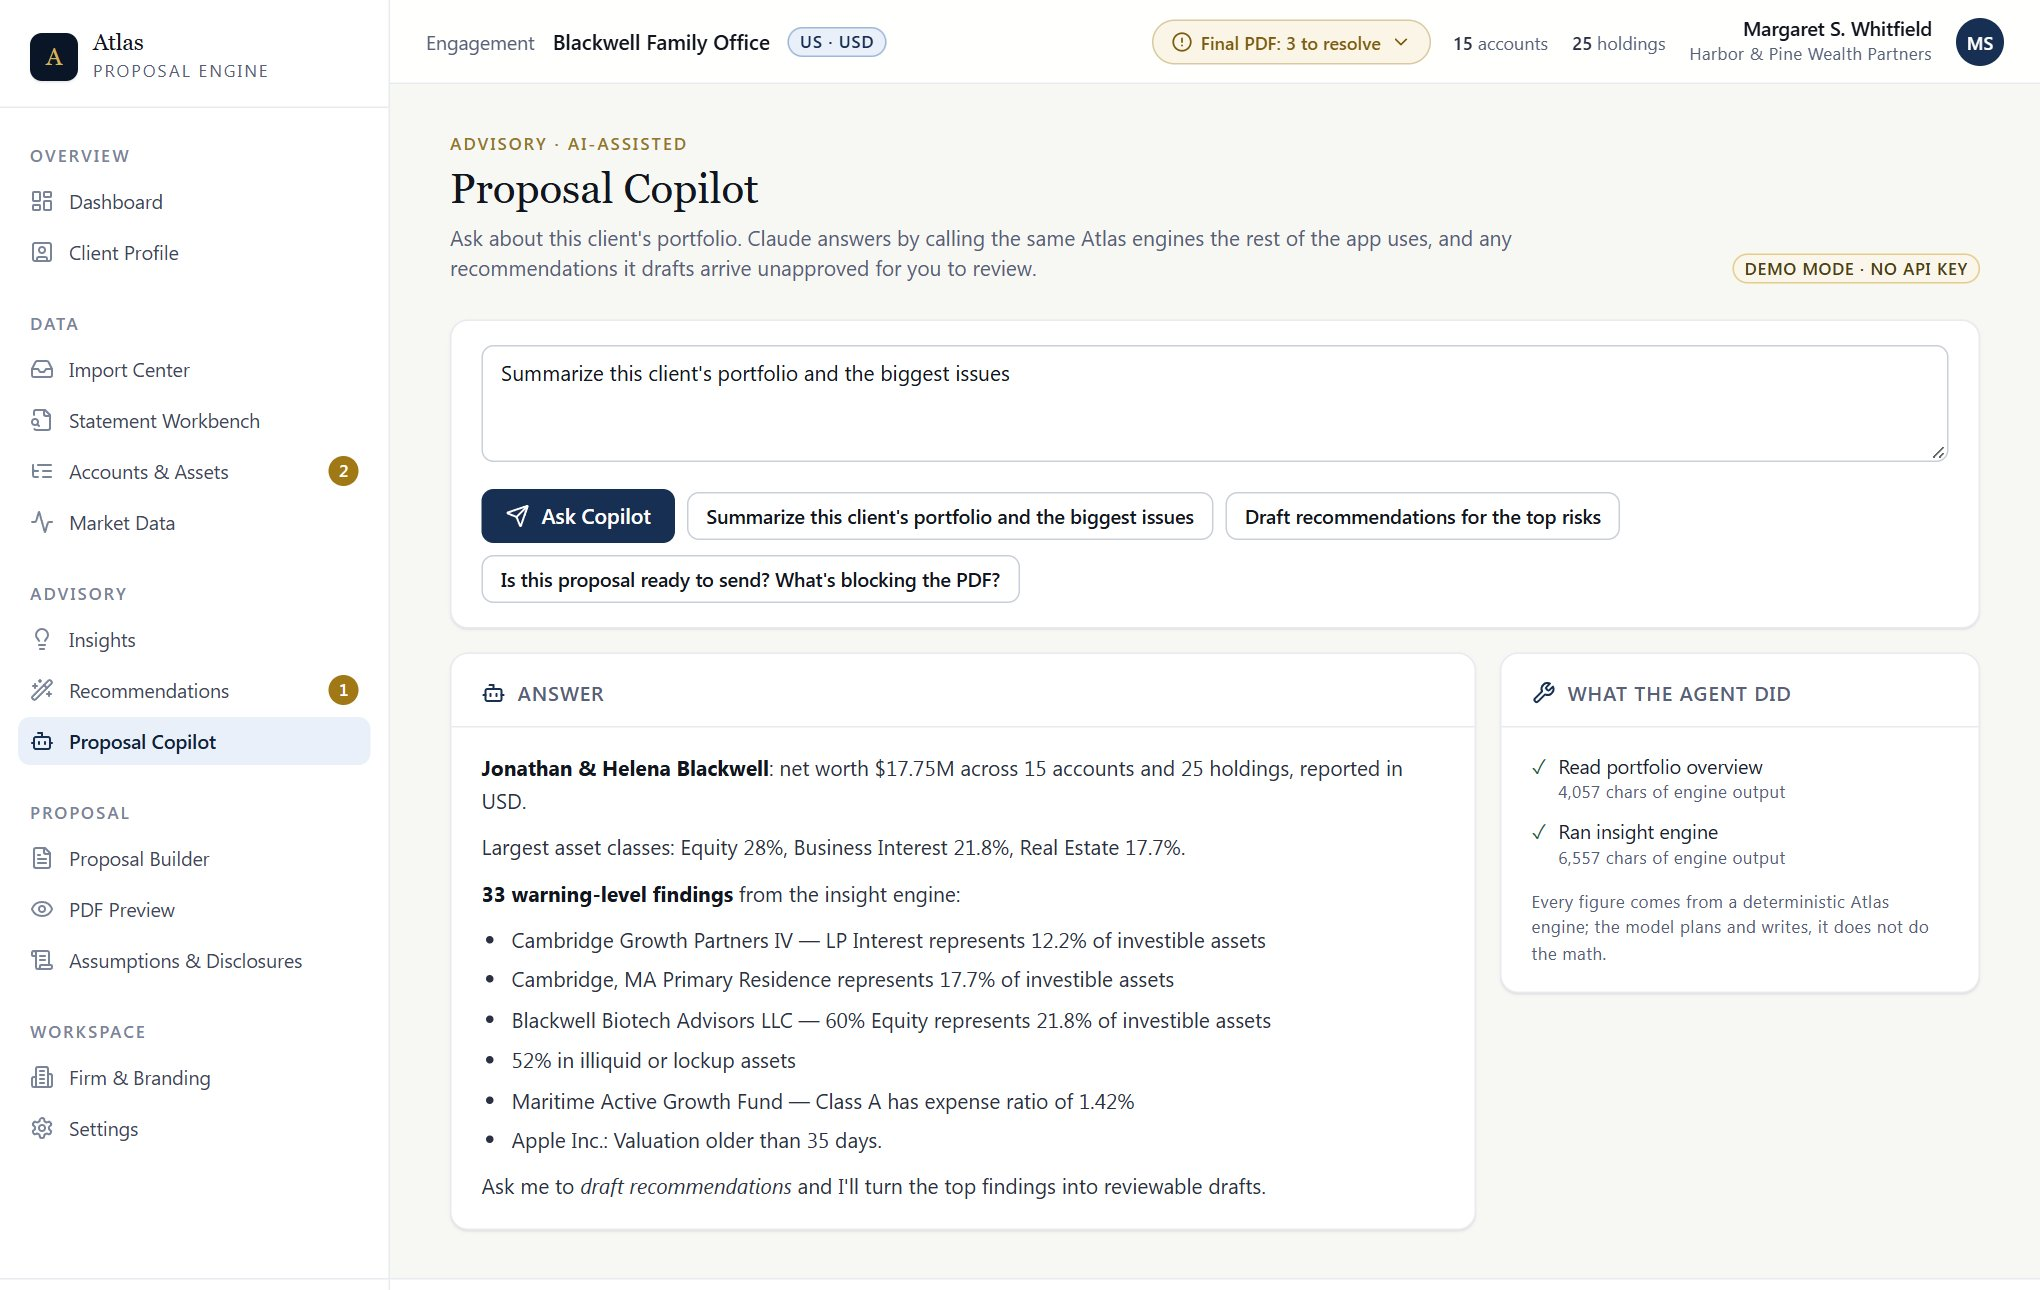
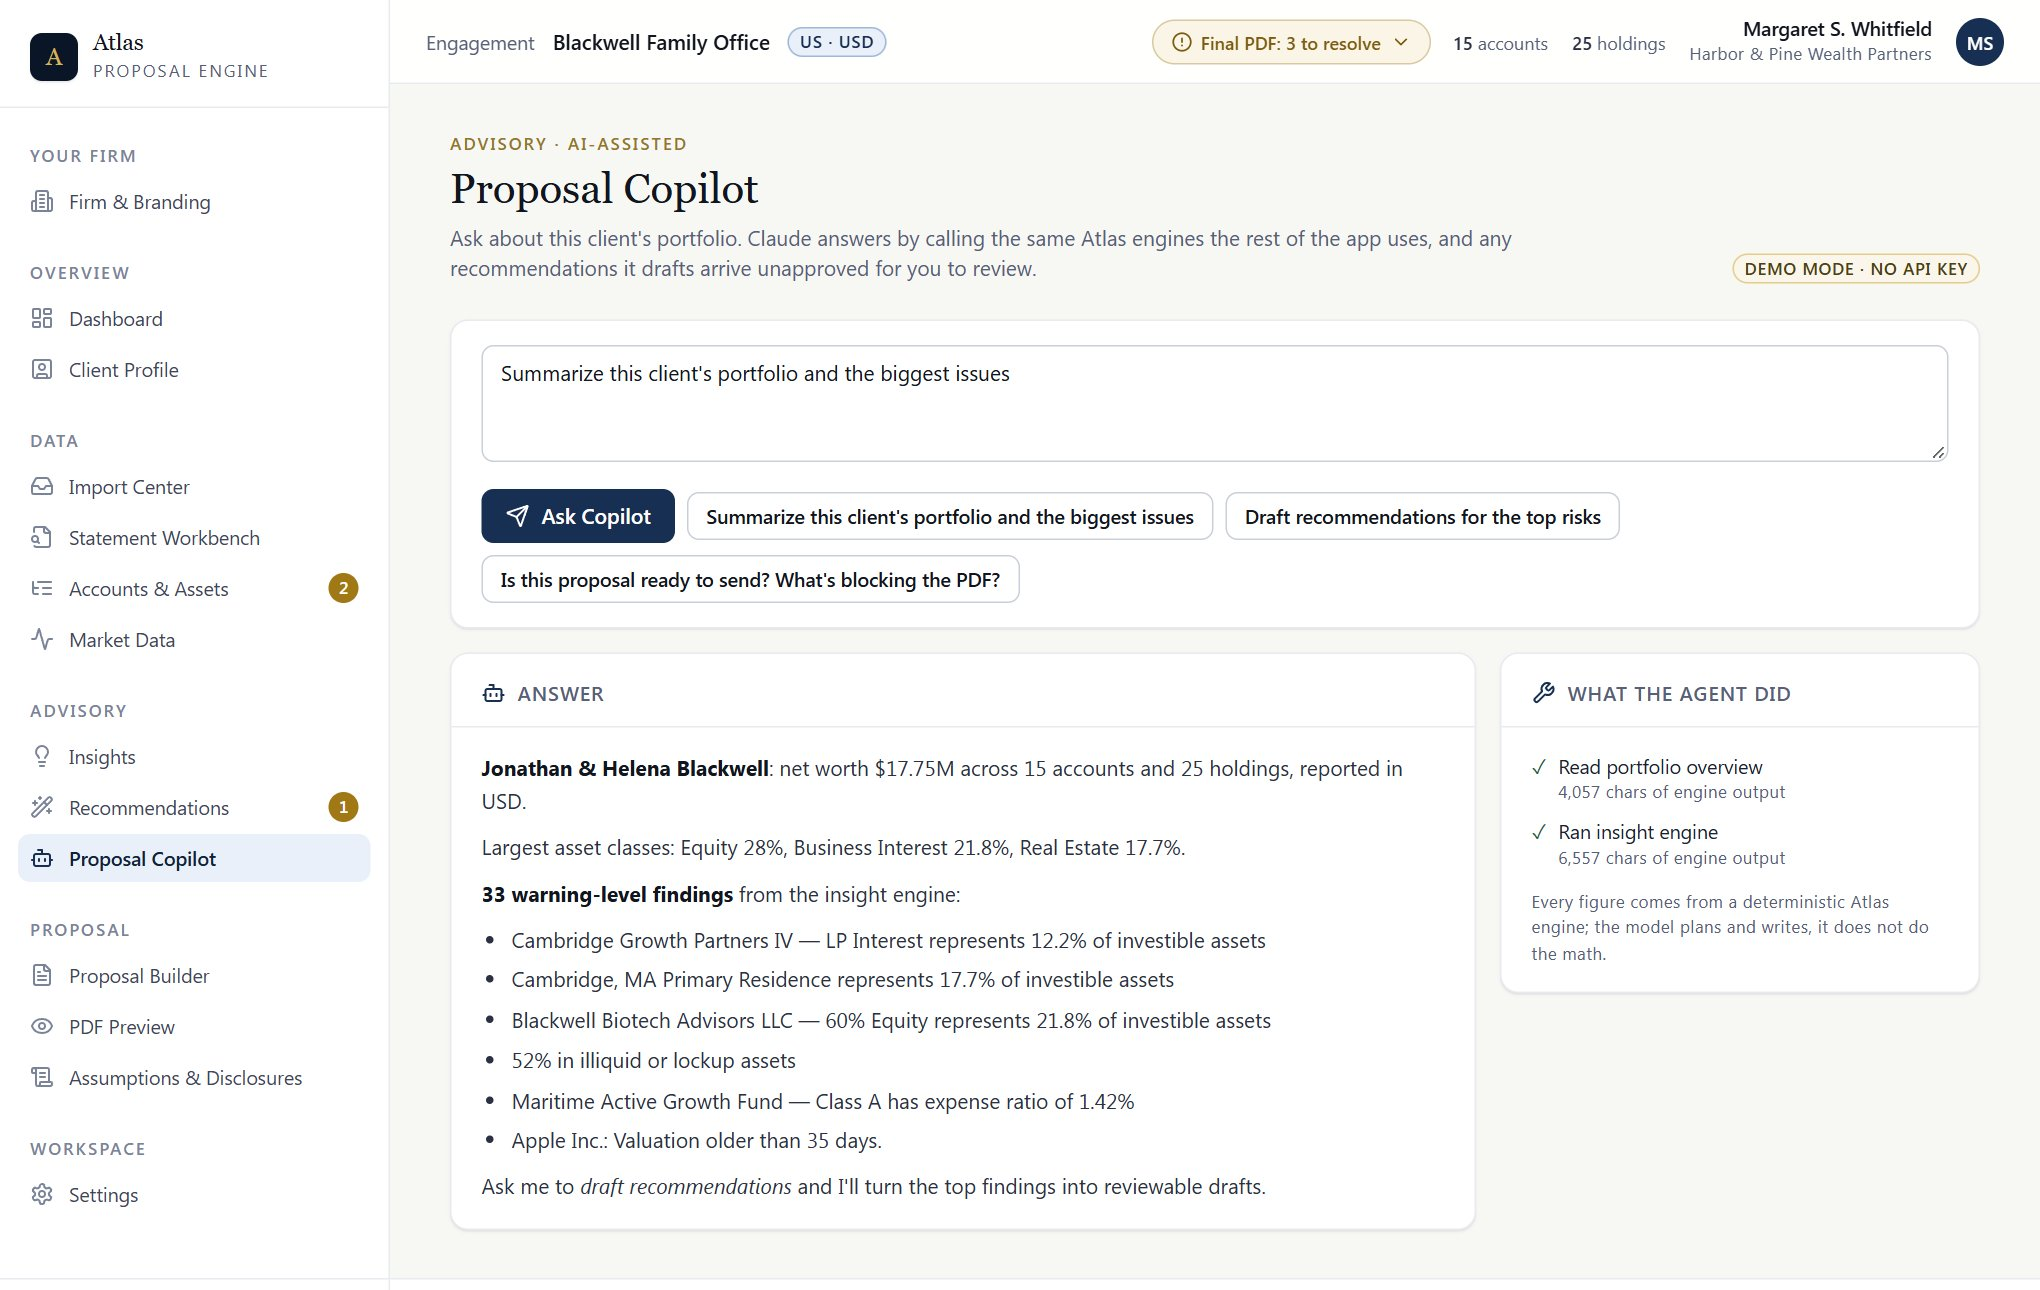
Lead the menu with Firm & Branding; make Client Profile client-only
Firm & Branding moves from the bottom of the sidebar (Workspace) to its own
'Your Firm' group at the top, matching the order of work: set up the firm
once, then work client by client. Client Profile drops the 'Your firm'
card and uses the full width for the client; the firm stays visible in the
top bar on every page. The advisor-responsibility note moves to Firm &
Branding. README screenshots retaken.

diff --git a/src/app/client-profile/page.tsx b/src/app/client-profile/page.tsx
@@ -1,8 +1,6 @@
 "use client";
 
 import * as React from "react";
-import Link from "next/link";
-import { ArrowRight } from "lucide-react";
 import { useAtlasStore } from "@/store/useStore";
 import { Card, CardBody, CardHeader, CardTitle } from "@/components/ui/Card";
 import { Input, Label, Select, Textarea } from "@/components/ui/Input";
@@ -22,7 +20,6 @@ export default function ClientProfilePage() {
 
 function ClientProfileInner() {
   const client = useAtlasStore((s) => s.client);
-  const advisor = useAtlasStore((s) => s.advisor);
   const setClient = useAtlasStore((s) => s.setClient);
   const startNewClient = useAtlasStore((s) => s.startNewClient);
   const resetSeed = useAtlasStore((s) => s.resetSeed);
@@ -44,7 +41,7 @@ function ClientProfileInner() {
       <PageHeader
         eyebrow="Engagement"
         title="Client Profile"
-        description="Who this proposal is for: the client's details, jurisdiction, goals and constraints. Your firm's details live in Firm & Branding."
+        description="Who this proposal is for: the client's details, jurisdiction, goals and constraints."
         actions={
           <>
             <Button variant="ghost" size="sm" onClick={() => { if (confirm("Restore the seeded Blackwell Family Office household?")) resetSeed(); }}>
@@ -57,7 +54,7 @@ function ClientProfileInner() {
         }
       />
 
-      <div className="grid grid-cols-1 lg:grid-cols-2 gap-4">
+      <div className="max-w-4xl">
         <Card>
           <CardHeader>
             <CardTitle>Client</CardTitle>
@@ -183,40 +180,6 @@ function ClientProfileInner() {
                 onChange={(e) => setClient({ advisorDiscoveryNotes: e.target.value })}
               />
             </Field>
-          </CardBody>
-        </Card>
-
-        <Card className="self-start">
-          <CardHeader>
-            <CardTitle>Your firm</CardTitle>
-          </CardHeader>
-          <CardBody className="space-y-3">
-            <div className="flex items-center gap-3">
-              {advisor.logoDataUrl && (
-                // eslint-disable-next-line @next/next/no-img-element
-                <img src={advisor.logoDataUrl} alt="" className="h-10 max-w-28 object-contain" />
-              )}
-              <div className="min-w-0">
-                <div className="font-medium text-ink-900 truncate">{advisor.firmName || "No firm set"}</div>
-                <div className="text-[13px] text-ink-600 truncate">
-                  {advisor.name || "No advisor set"}
-                  {advisor.email ? ` · ${advisor.email}` : ""}
-                </div>
-              </div>
-            </div>
-            <p className="text-[13px] text-ink-600 leading-relaxed">
-              Proposals are branded with your firm, not Atlas. Firm details, logo and accent color are set once in{" "}
-              <span className="font-medium text-ink-800">Firm &amp; Branding</span> and reused for every client.
-            </p>
-            <Link href="/firm-branding">
-              <Button variant="secondary" size="sm" iconRight={<ArrowRight className="h-3.5 w-3.5" />}>
-                Edit firm &amp; branding
-              </Button>
-            </Link>
-            <p className="text-2xs text-ink-500 leading-relaxed pt-2 border-t border-ink-100">
-              The advisor remains responsible for the suitability and implementation of every recommendation in this proposal. The platform does not autonomously provide
-              financial, tax, legal, or investment advice.
-            </p>
           </CardBody>
         </Card>
       </div>

diff --git a/src/components/layout/Sidebar.tsx b/src/components/layout/Sidebar.tsx
@@ -32,6 +32,8 @@ interface NavItem {
 }
 
 const NAV: NavItem[] = [
+  // Set up once, before any client work, so it leads the menu.
+  { label: "Firm & Branding", href: "/firm-branding", icon: <Building2 className="h-4 w-4" />, group: "Your Firm" },
   { label: "Dashboard", href: "/", icon: <LayoutDashboard className="h-4 w-4" />, group: "Overview" },
   { label: "Client Profile", href: "/client-profile", icon: <UserSquare className="h-4 w-4" />, group: "Overview" },
   { label: "Import Center", href: "/import-center", icon: <Inbox className="h-4 w-4" />, group: "Data" },
@@ -44,7 +46,6 @@ const NAV: NavItem[] = [
   { label: "Proposal Builder", href: "/proposal-builder", icon: <FileText className="h-4 w-4" />, group: "Proposal" },
   { label: "PDF Preview", href: "/pdf-preview", icon: <Eye className="h-4 w-4" />, group: "Proposal" },
   { label: "Assumptions & Disclosures", href: "/assumptions-disclosures", icon: <ScrollText className="h-4 w-4" />, group: "Proposal" },
-  { label: "Firm & Branding", href: "/firm-branding", icon: <Building2 className="h-4 w-4" />, group: "Workspace" },
   { label: "Settings", href: "/settings", icon: <Settings className="h-4 w-4" />, group: "Workspace" },
 ];
 

diff --git a/src/app/firm-branding/page.tsx b/src/app/firm-branding/page.tsx
@@ -86,6 +86,10 @@ function Inner() {
                 Disclosures refer to the adviser as <code className="bg-slatey-100 rounded px-1">[Firm]</code>. Once you replace the sample firm
                 name, proposals use your firm name there instead.
               </p>
+              <p className="sm:col-span-2 text-2xs text-ink-500 leading-relaxed border-t border-ink-100 pt-3">
+                The advisor of record remains responsible for the suitability and implementation of every recommendation in a
+                proposal. Atlas does not autonomously provide financial, tax, legal, or investment advice.
+              </p>
             </CardBody>
           </Card>
 
